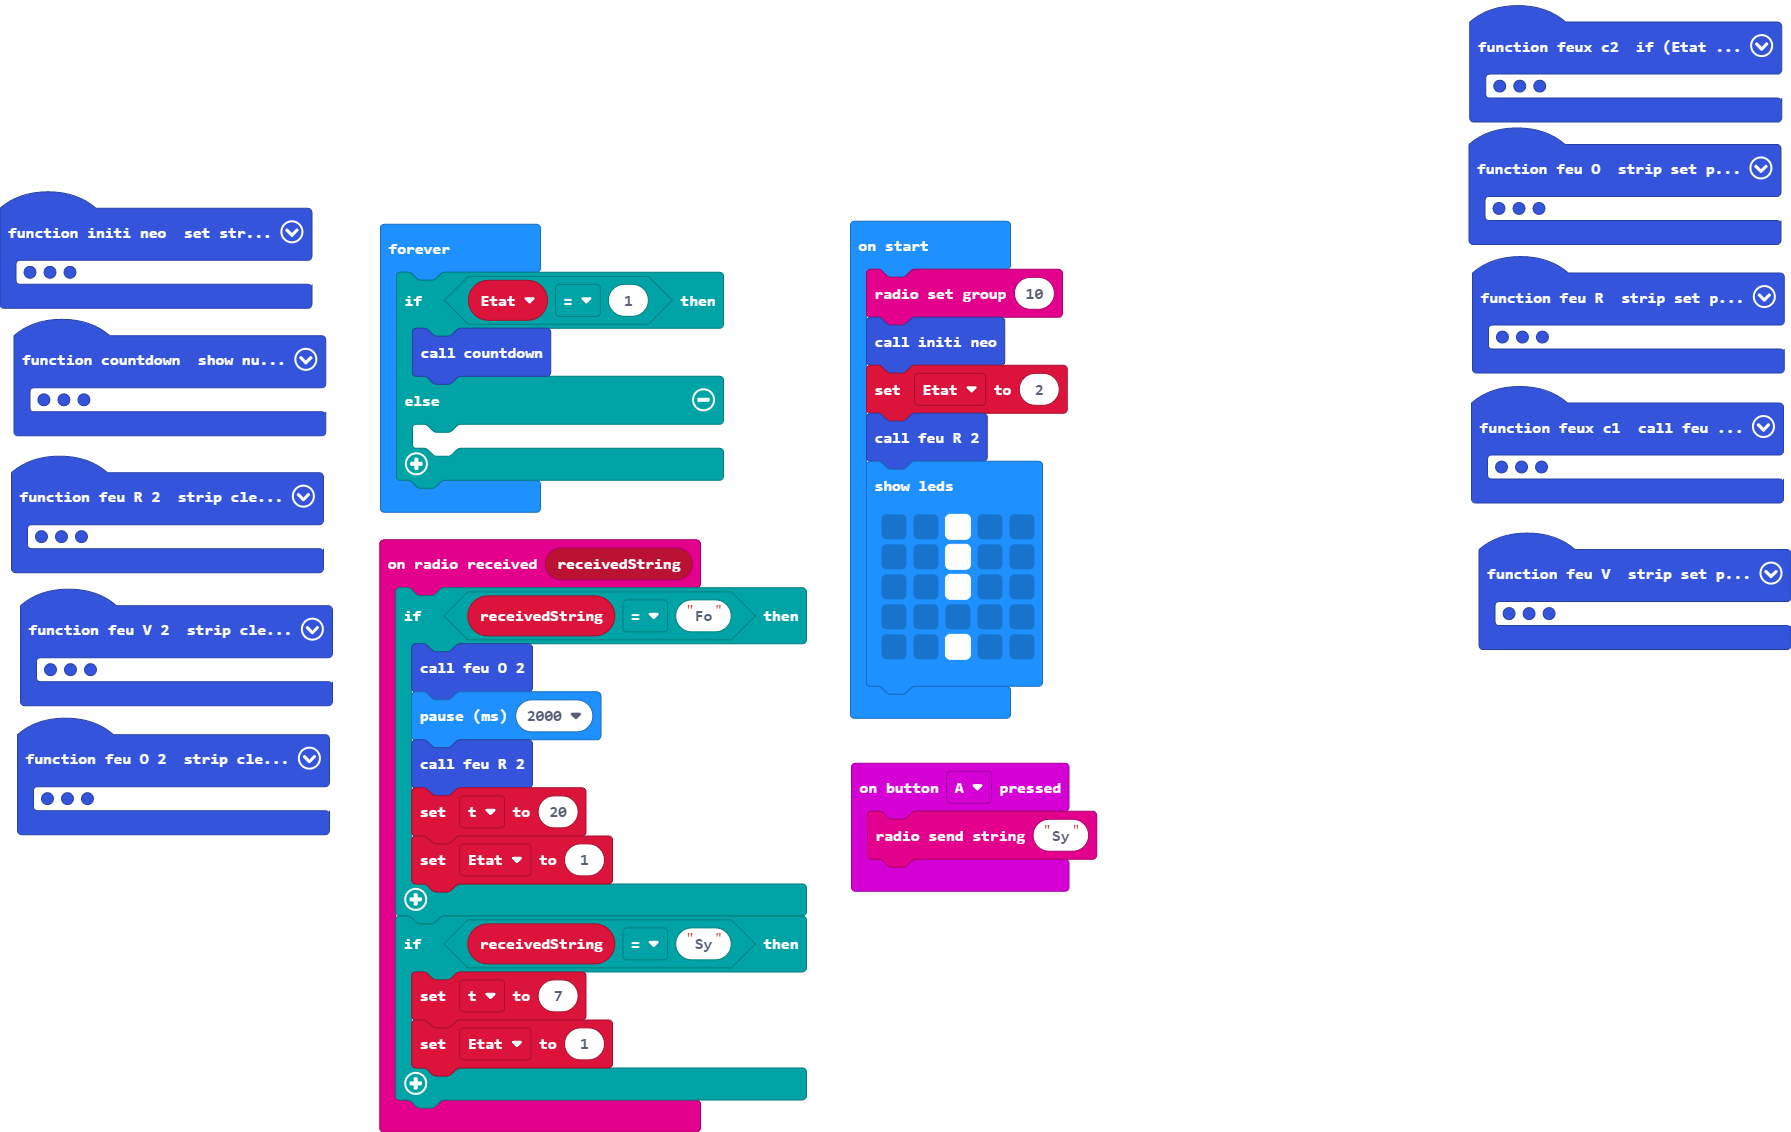
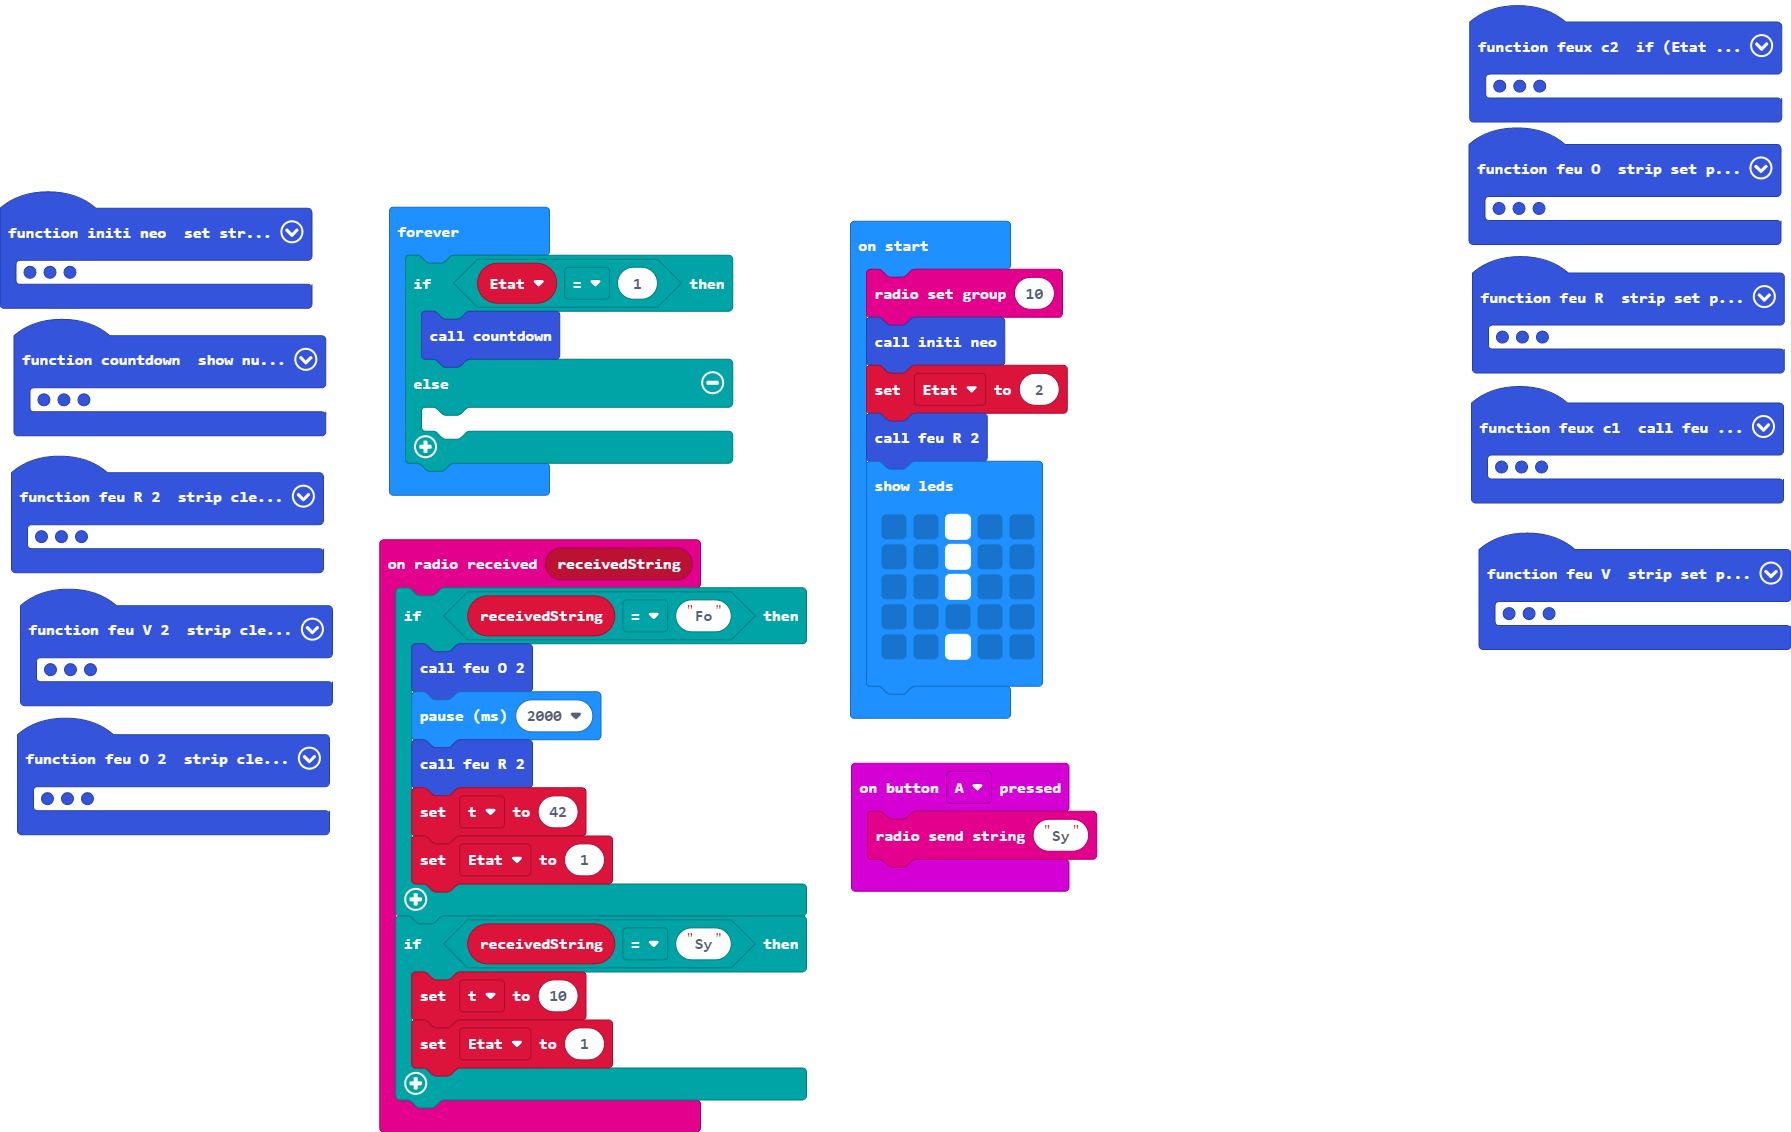
Update main.blocks, main.ts

Changed region(s): [[0.215, 0.1546, 0.4299, 0.4638]]

diff --git a/main.ts b/main.ts
@@ -12,7 +12,7 @@ function countdown () {
     basic.showNumber(t)
     basic.pause(1000)
     t = t - 1
-    if (t == 5) {
+    if (t == 7) {
         radio.sendString("Fo")
     } else if (t == 0) {
         Etat = 0
@@ -76,11 +76,11 @@ radio.onReceivedString(function (receivedString) {
         feu_O_2()
         basic.pause(2000)
         feu_R_2()
-        t = 20
+        t = 42
         Etat = 1
     }
     if (receivedString == "Sy") {
-        t = 7
+        t = 10
         Etat = 1
     }
 })
